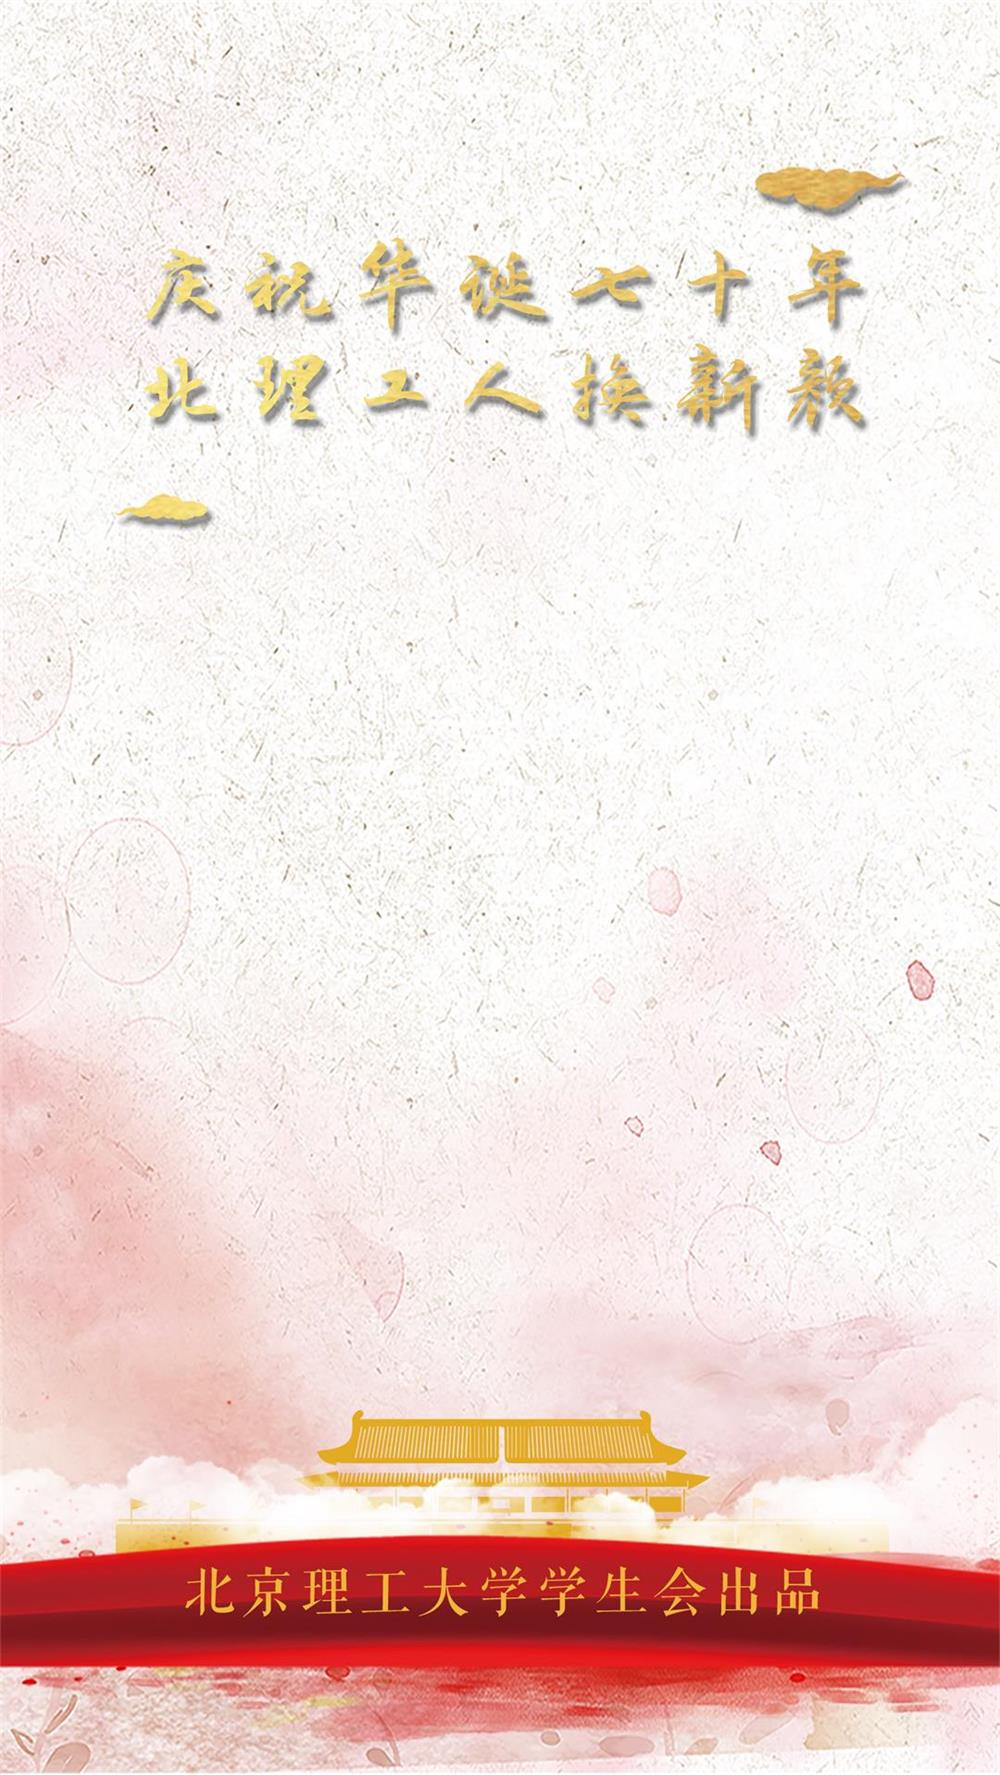
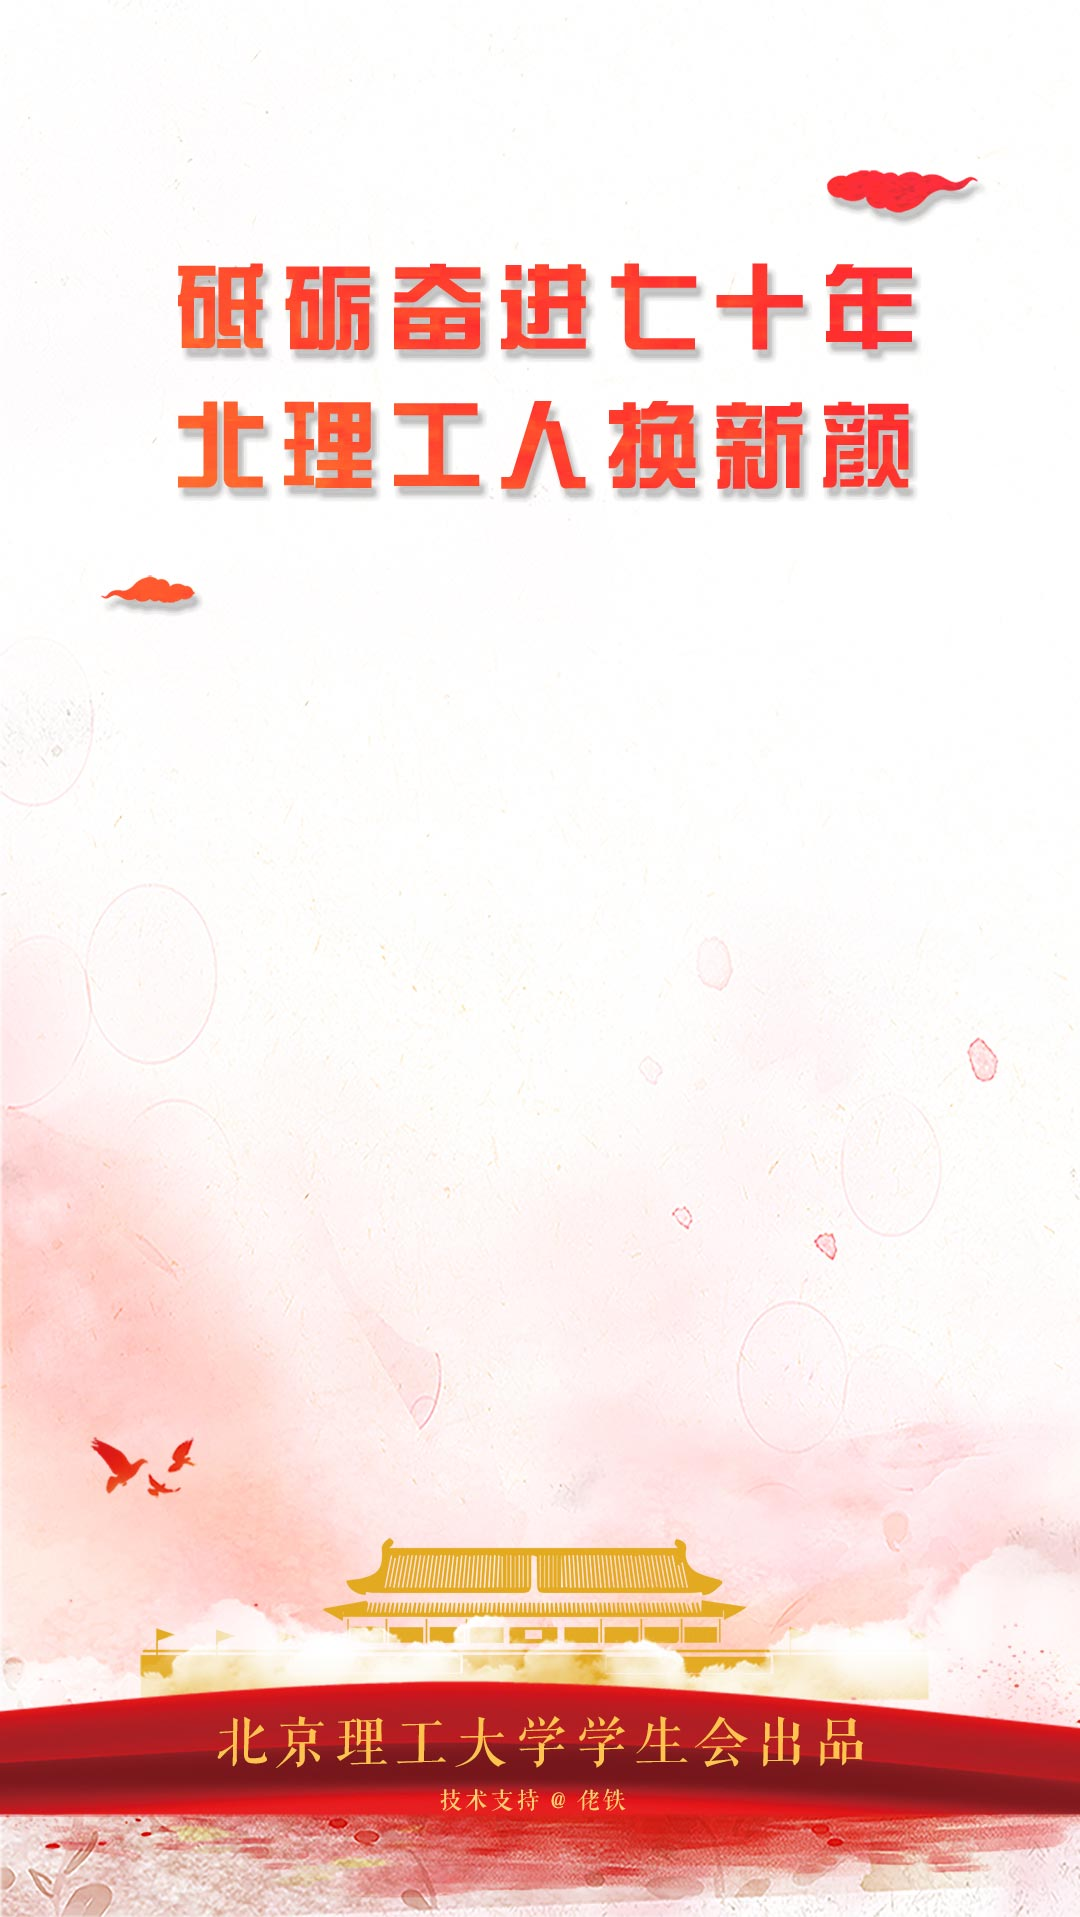
feat: 添加assets

diff --git a/src/views/AvatarFactory.vue b/src/views/AvatarFactory.vue
@@ -2,14 +2,14 @@
   <div class="avatar-factory" v-loading.fullscreen.lock="isLoading">
     <div class="flex-col">
       <div class="center-flow">
-        <el-button circle type="warning" icon="el-icon-arrow-left" @click="switchCover(-1)"></el-button>
+        <el-button circle plain type="warning" icon="el-icon-arrow-left" @click="switchCover(-1)"></el-button>
         <div class="avatar-wrap">
           <canvas v-show="canvasVisible" id="avatarGraph" width="384" height="384" @click="chooseImg">
             您的浏览器不支持 HTML5 canvas 标签。
           </canvas>
           <el-avatar v-show="!canvasVisible" shape="square" :size="128" :src="headImgUrl" />
         </div>
-        <el-button circle type="warning" icon="el-icon-arrow-right" @click="switchCover(1)"></el-button>
+        <el-button circle plain type="warning" icon="el-icon-arrow-right" @click="switchCover(1)"></el-button>
       </div>
 
       <el-button plain type="warning" class="submit-button" @click="genAvatarImg">
@@ -150,7 +150,7 @@ export default class AvatarFactory extends Vue {
       // 内部调用 `wechatObj.callWechatApi('onMenuShareAppMessage', {...})`语法糖
       wx.updateAppMessageShareData({
         type: 'link',
-        title: '庆祝华诞七十年，北理工人换新颜！',
+        title: '砥砺奋进七十年，北理工人换新颜！',
         desc: '@全体北理工人',
         link: SITE + 'bit/avatar',
         imgUrl: SITE_UNSPLASH + require('@/assets/share_cover.jpg'),
@@ -161,7 +161,7 @@ export default class AvatarFactory extends Vue {
       // 语法糖
       wx.updateTimelineShareData({
         type: 'link',
-        title: '庆祝华诞七十年，北理工人换新颜！@全体北理工人',
+        title: '砥砺奋进七十年，北理工人换新颜！@全体北理工人',
         link: SITE + 'bit/avatar',
         imgUrl: SITE_UNSPLASH + require('@/assets/share_cover.jpg'),
         // success: (e: any) => {console.log(e)},
@@ -175,14 +175,14 @@ export default class AvatarFactory extends Vue {
       sizeType: 'compressed',
       success: (res: any) => {
         // console.log('local ids', res.localIds);
+        this.isLoading = true;
         this.wx.uploadImage({
           localId: res.localIds[0], // 需要上传的图片的本地ID，由chooseImage接口获得
-          isShowProgressTips: 1, // 默认为1，显示进度提示
+          isShowProgressTips: 0, // 默认为1，显示进度提示
           success: async (serverRes: any) => {
             const serverId = serverRes.serverId; // 返回图片的服务器端ID
             // alert(serverId);
             // this.cookie = serverId;
-            this.isLoading = true;
             const { data: content } = await this.axios.get('/api/get_media.php', {
               params: {
                 media_id: serverId,
@@ -307,6 +307,7 @@ export default class AvatarFactory extends Vue {
       }
       .info{
         font-size: 12px;
+        opacity: .85;
       }
     }
     #avatarGraph{
